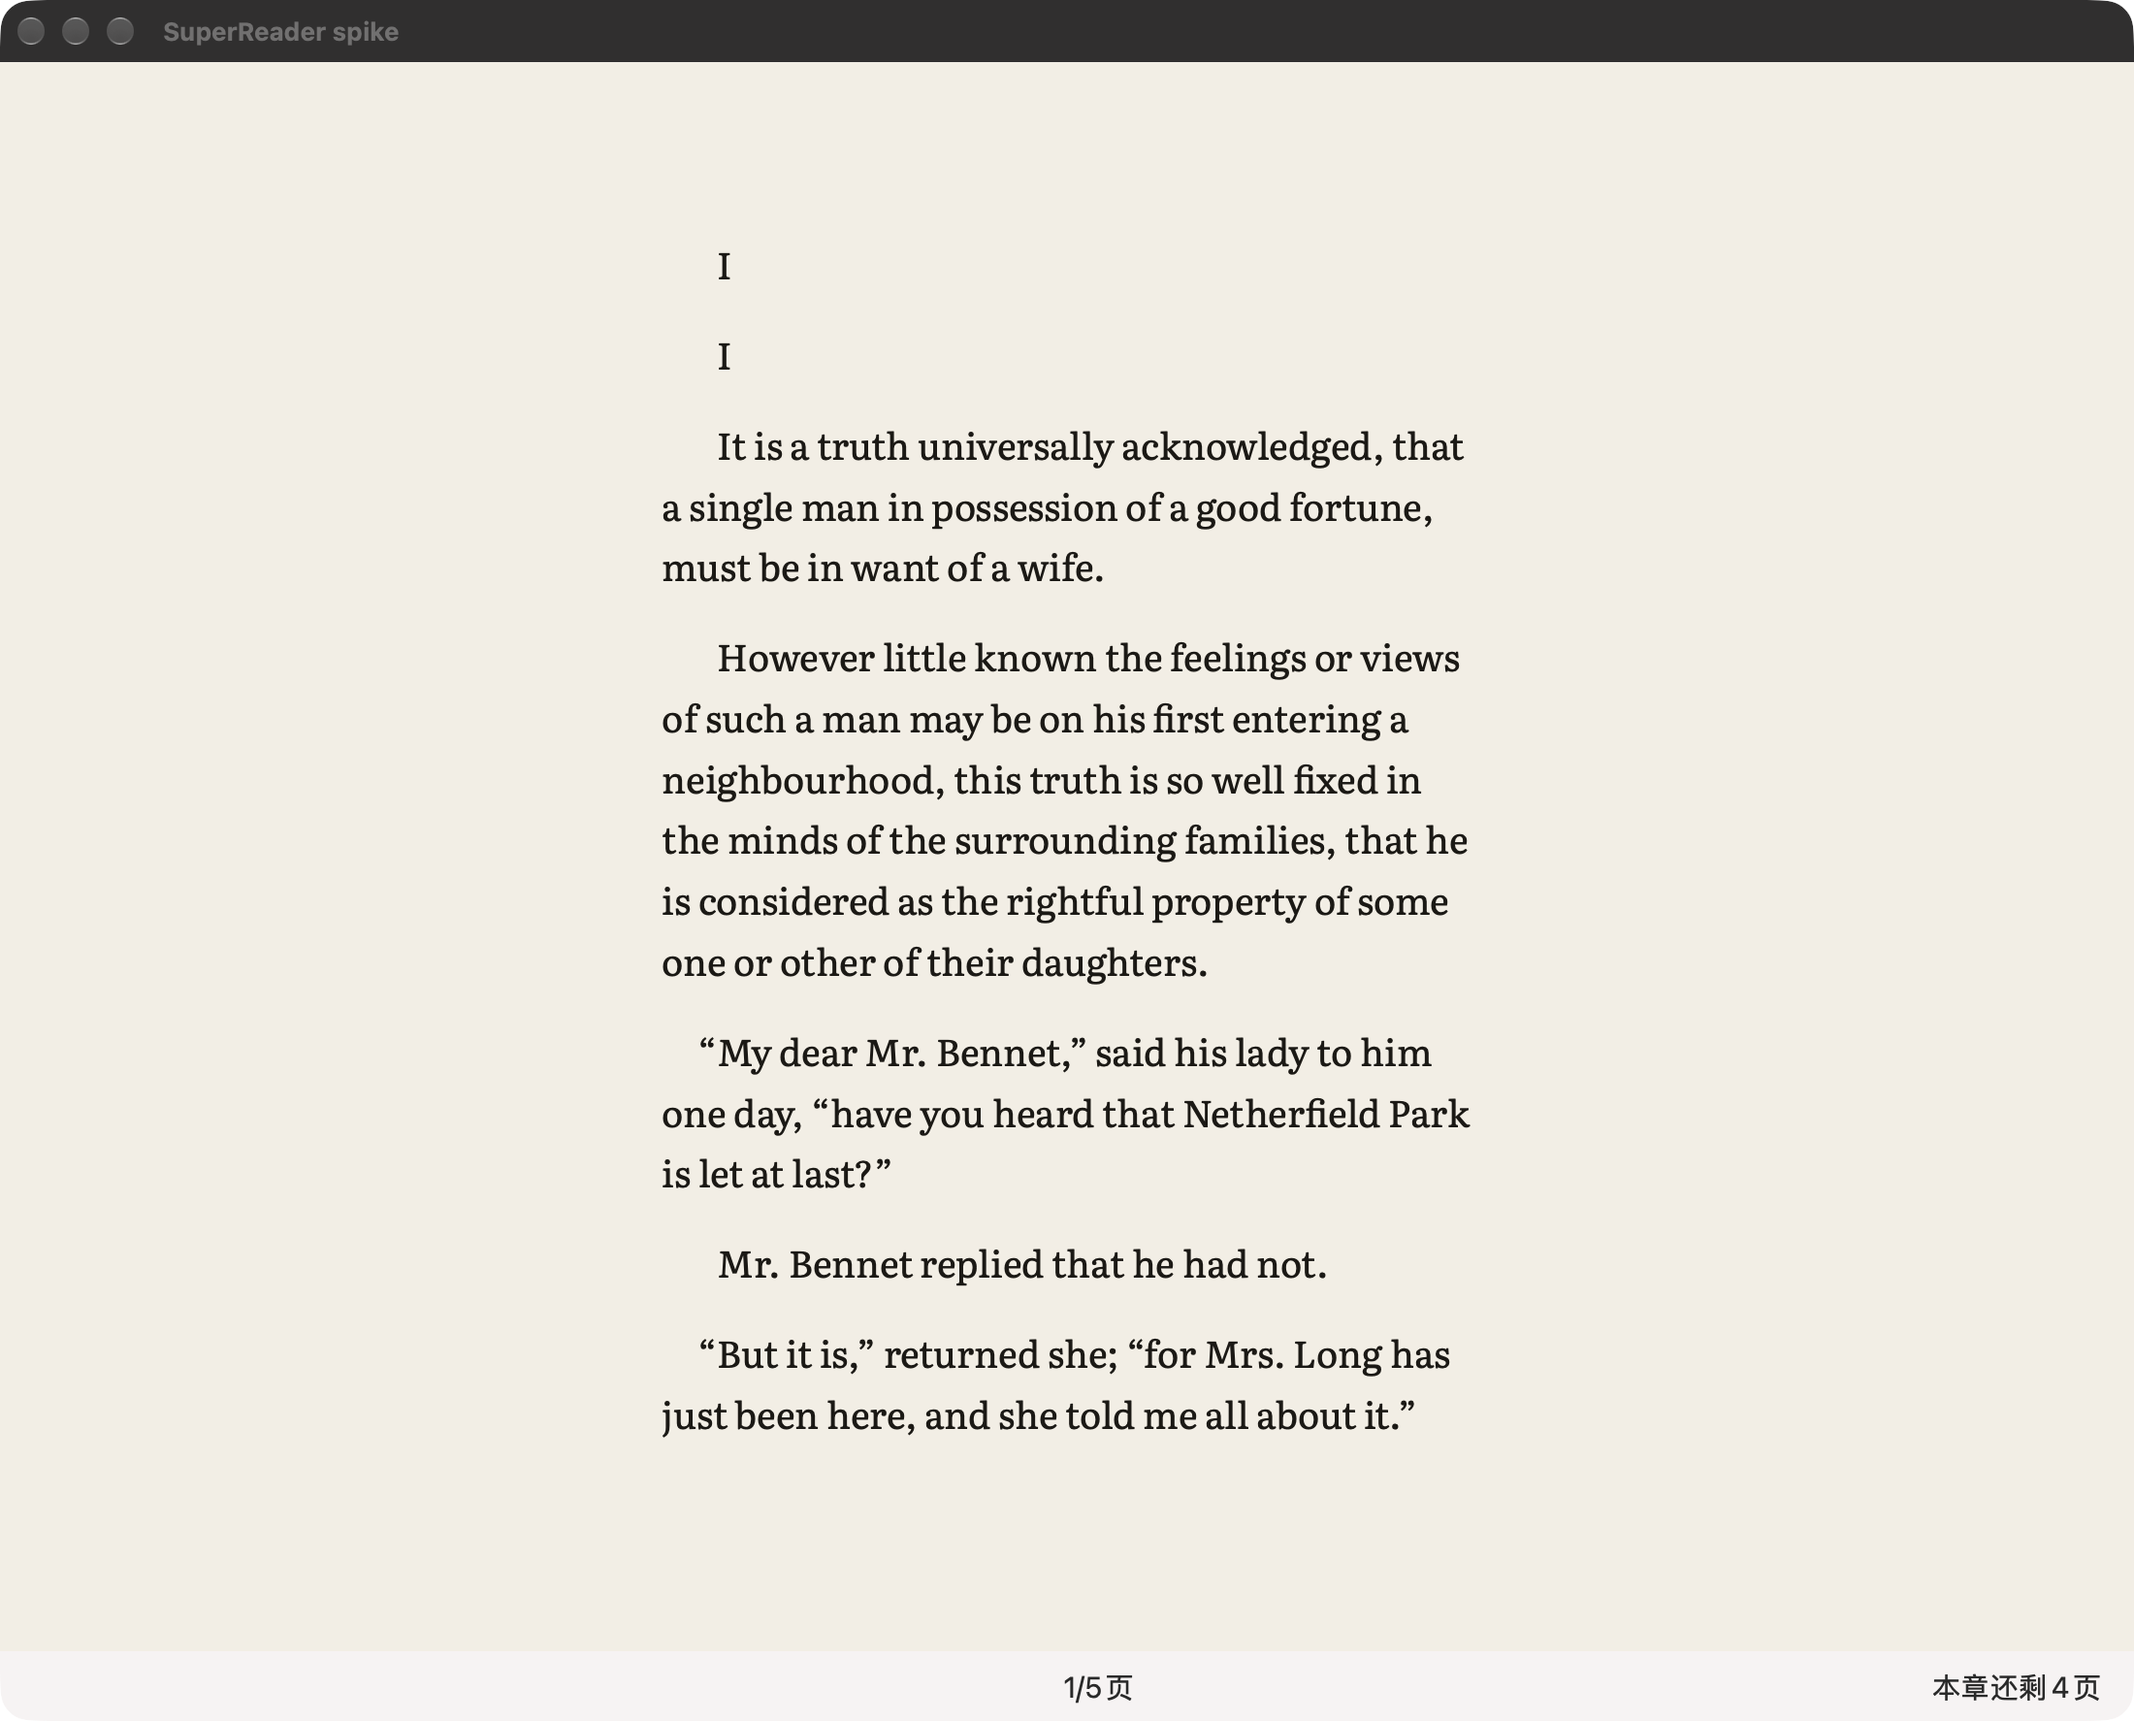
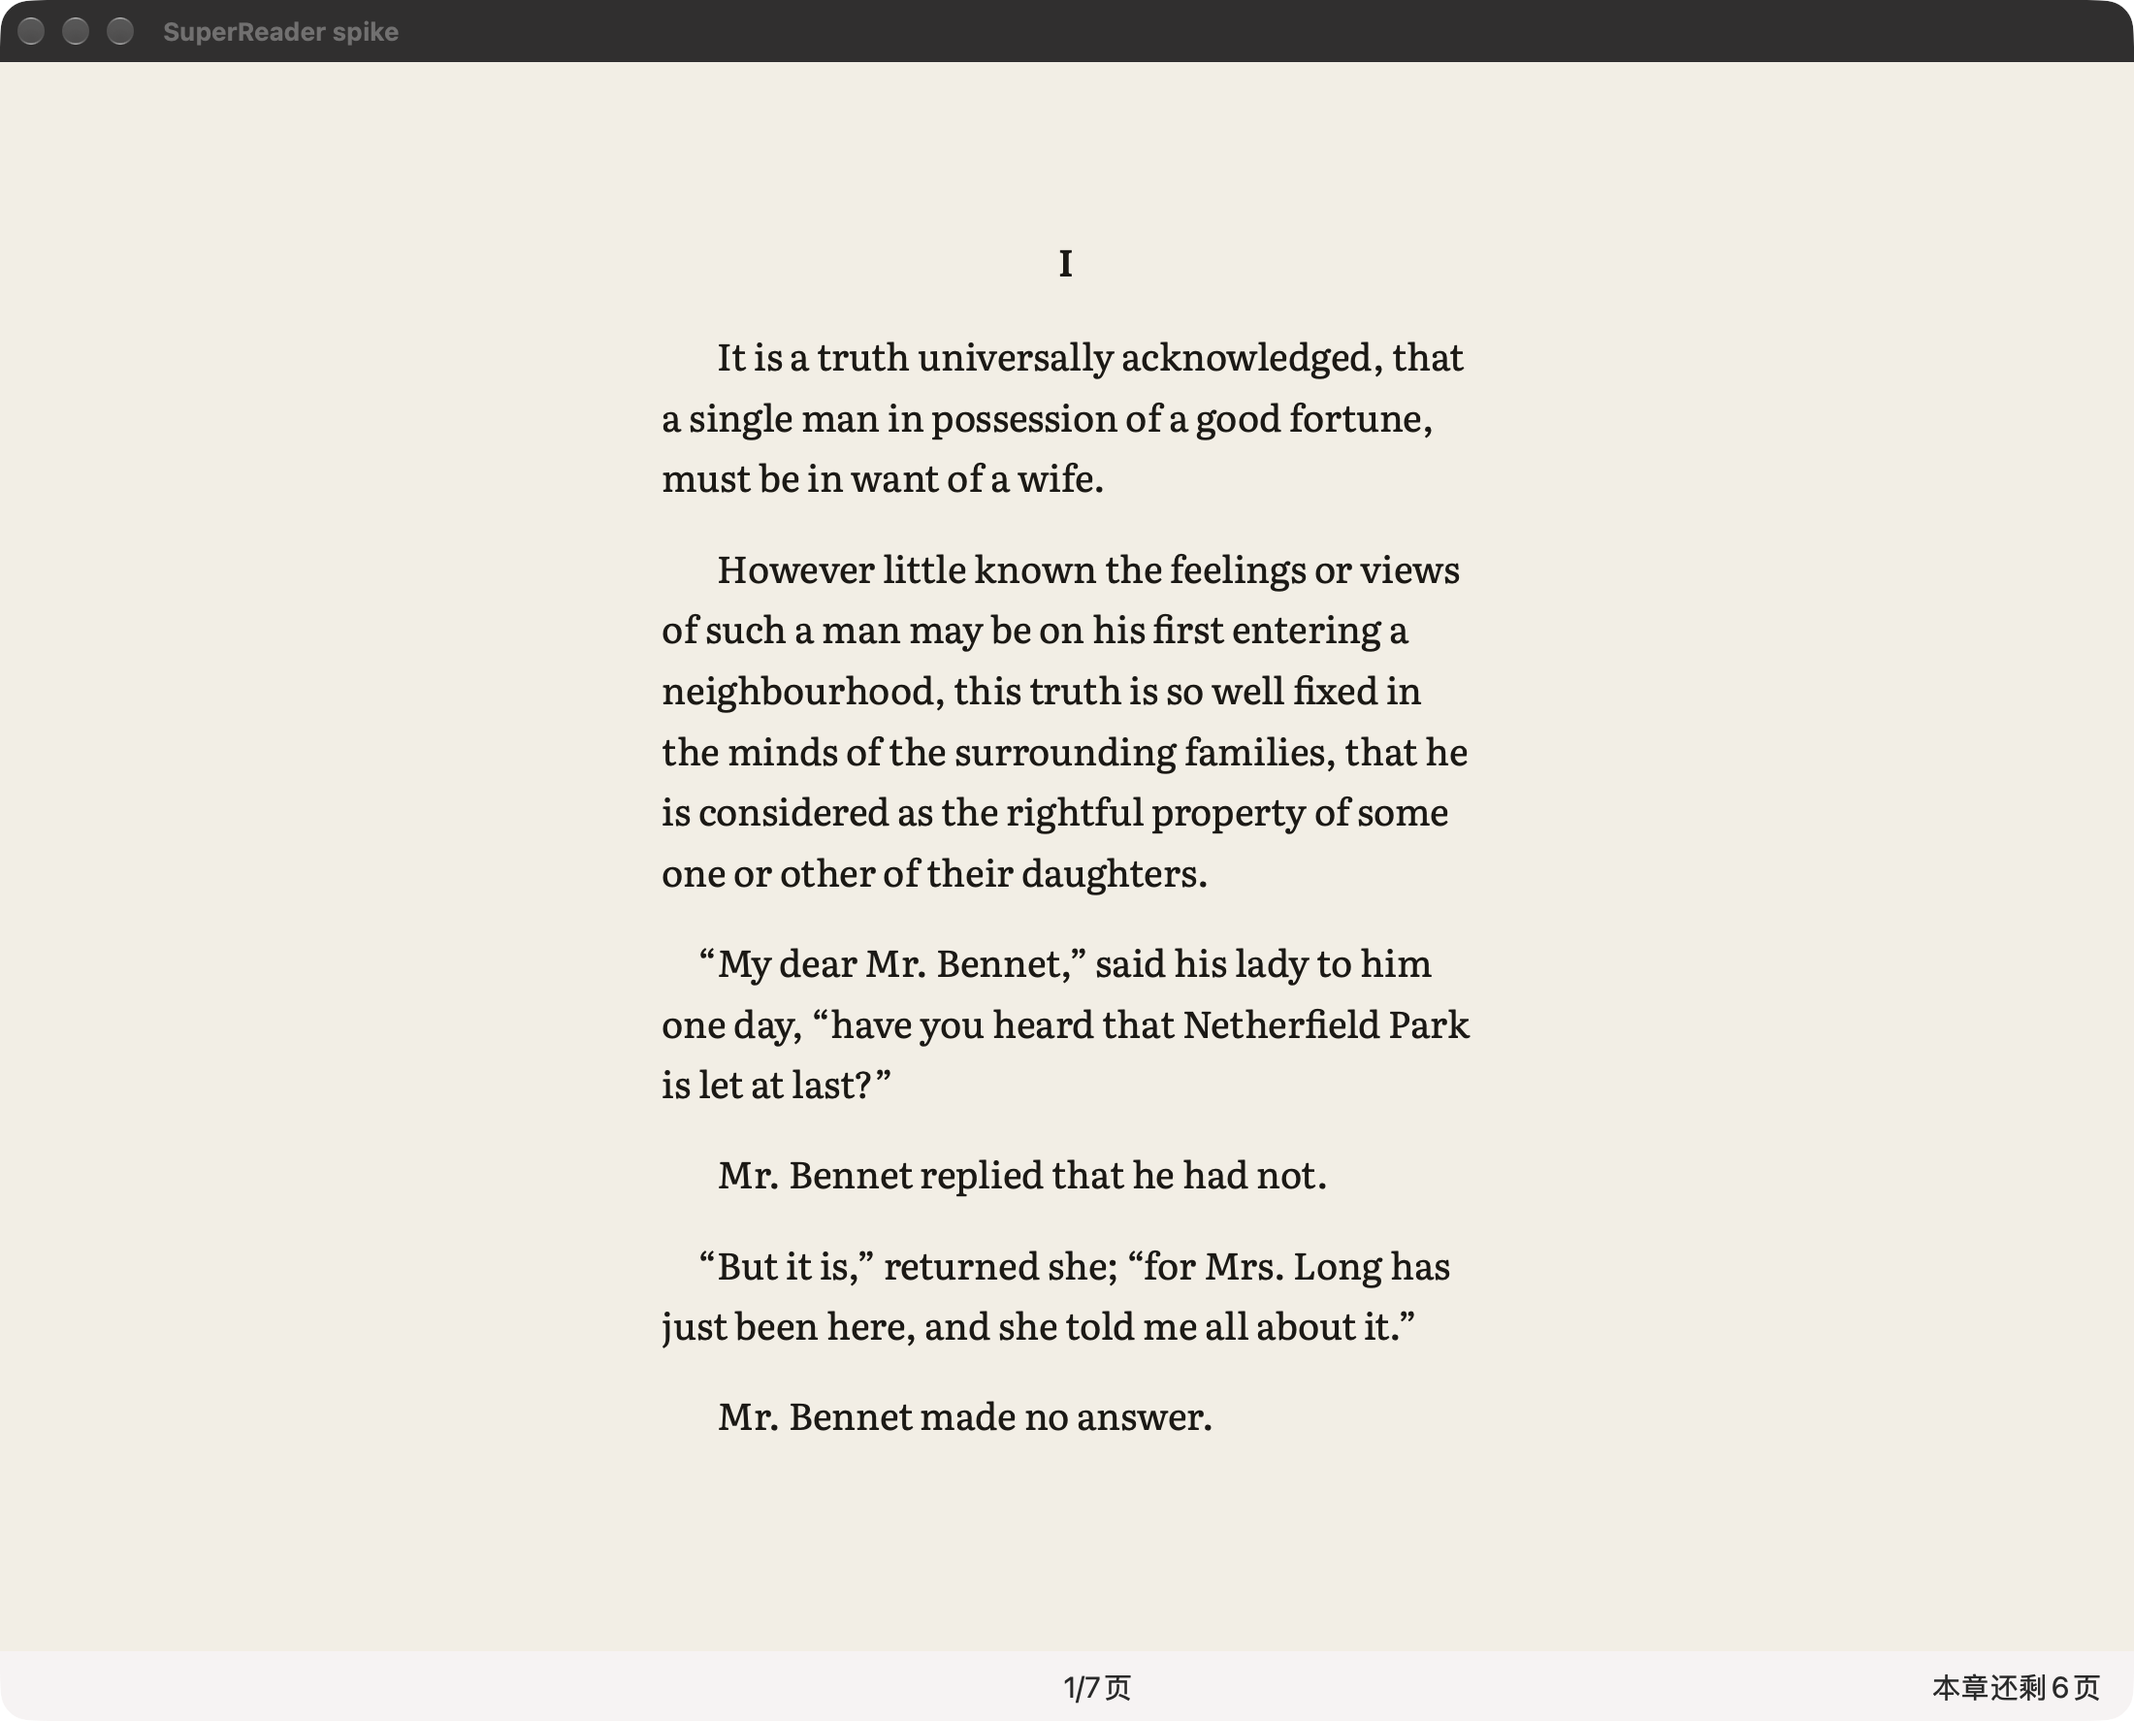
fix(fixtures): emit the chapter heading once
The document title and the h2 were both becoming body paragraphs.
The heading is now one h2, and a repeated block fails the text check.

Changed region(s): [[0.3091, 0.186, 0.68, 0.8371], [0.4945, 0.9611, 0.5255, 0.9921]]

diff --git a/spikes/epub/fixtures/build_books.py b/spikes/epub/fixtures/build_books.py
@@ -13,43 +13,39 @@ PRIDE = OUT / "pride-se.epub"
 ZHAOHUA = OUT / "zhaohua.epub"
 
 
-def plain_from(epub, needle):
-    if not epub.exists():
-        return ""
-    with zipfile.ZipFile(epub) as book:
-        for name in book.namelist():
-            if not name.lower().endswith((".xhtml", ".html", ".htm")):
-                continue
-            text = book.read(name).decode("utf-8", "replace")
-            if needle not in text:
-                continue
-            body = re.sub(r"(?is)<(script|style)[^>]*>.*?</\1>", " ", text)
-            body = re.sub(r"(?is)<br\s*/?>", "\n", body)
-            body = re.sub(r"(?is)</(?:p|div|h[1-6]|li|blockquote)>", "\n", body)
-            body = re.sub(r"(?is)<[^>]+>", "", body)
-            body = html.unescape(body)
-            body = re.sub(r"[ \t]+", " ", body)
-            body = re.sub(r"\n+", "\n", body).strip()
-            if len(body) > 1500:
-                return body[:6000]
-    return ""
+def blocks_from(epub, needle, fallback):
+    blocks = []
+    if epub.exists():
+        with zipfile.ZipFile(epub) as book:
+            for name in book.namelist():
+                if not name.lower().endswith((".xhtml", ".html", ".htm")):
+                    continue
+                text = book.read(name).decode("utf-8", "replace")
+                if needle not in text:
+                    continue
+                body = re.search(r"(?is)<body[^>]*>(.*)</body>", text)
+                inner = body.group(1) if body else text
+                for match in re.finditer(r"(?is)<(h[1-6]|p)\b[^>]*>(.*?)</\1>", inner):
+                    tag = match.group(1).lower()
+                    piece = re.sub(r"(?is)<[^>]+>", "", match.group(2))
+                    piece = html.unescape(piece)
+                    piece = " ".join(piece.split()).replace("\ue4c2", "").replace("\ue000", "")
+                    if not piece or "Gutenberg" in piece or "LICENSE" in piece:
+                        continue
+                    kind = tag if tag.startswith("h") else "p"
+                    block = (kind, piece)
+                    if blocks and blocks[-1] == block:
+                        continue
+                    blocks.append(block)
+                if sum(len(piece) for _, piece in blocks) > 1500:
+                    break
+    if not blocks:
+        blocks = [("p", fallback)]
+    return blocks
 
 
-def paragraphs(text, fallback):
-    chunks = []
-    for block in re.split(r"\n+", text):
-        block = " ".join(block.split())
-        if not block or "Gutenberg" in block or "LICENSE" in block:
-            continue
-        block = block.replace("\ue4c2", "").replace("\ue000", "")
-        if block:
-            chunks.append(block)
-    if not chunks:
-        chunks = [fallback]
-    filled = []
-    while sum(len(chunk) for chunk in filled) < 2200:
-        filled.extend(chunks[:8])
-    return filled
+def render(blocks):
+    return "\n".join(f"<{tag}>{html.escape(text)}</{tag}>" for tag, text in blocks)
 
 
 def xhtml(lang, title, body, extra_head=""):
@@ -105,19 +101,15 @@ def write_epub(path, files):
             book.writestr(name, data)
 
 
-def p_tags(chunks):
-    return "\n".join(f"<p>{html.escape(chunk)}</p>" for chunk in chunks)
-
-
 def build():
-    pride = paragraphs(
-        plain_from(PRIDE, "truth universally acknowledged"),
-        "It is a truth universally acknowledged, that a single man in possession of a good fortune, must be in want of a wife. "
-        "However little known the feelings or views of such a man may be on his first entering a neighbourhood, "
-        "this truth is so well fixed in the minds of the surrounding families, that he is considered the rightful property of some one or other of their daughters.",
+    pride = blocks_from(
+        PRIDE,
+        "truth universally acknowledged",
+        "It is a truth universally acknowledged, that a single man in possession of a good fortune, must be in want of a wife.",
     )
-    chinese = paragraphs(
-        plain_from(ZHAOHUA, "范"),
+    chinese = blocks_from(
+        ZHAOHUA,
+        "范",
         "在東京的客店裏，我們大抵一起來就看報。學生所看的多是朝日新聞和讀賣新聞。專愛看一點報上的雜感。",
     )
     container = """<?xml version="1.0"?>
@@ -128,12 +120,13 @@ def build():
     styled_css = """
 @font-face { font-family: "Literata"; src: url("Literata.ttf") format("truetype"); }
 p { font-family: "Literata", serif; font-size: 19px; line-height: 1.65; text-indent: 1.5em; text-align: left; margin: 0 0 0.8em 0; }
+h1, h2, h3 { font-family: "Literata", serif; font-size: 19px; text-align: center; text-indent: 0; font-weight: 600; margin: 0 0 1em 0; }
 """
     books = {
         "plain-en.epub": (
             "en",
             "Plain English",
-            p_tags(pride),
+            render(pride),
             "",
             None,
             [],
@@ -141,7 +134,7 @@ p { font-family: "Literata", serif; font-size: 19px; line-height: 1.65; text-ind
         "plain-zh.epub": (
             "zh-CN",
             "Plain Chinese",
-            p_tags(chinese),
+            render(chinese),
             "",
             None,
             [],
@@ -149,7 +142,7 @@ p { font-family: "Literata", serif; font-size: 19px; line-height: 1.65; text-ind
         "styled.epub": (
             "en",
             "Styled Literata",
-            p_tags(pride),
+            render(pride),
             '<link rel="stylesheet" href="style.css"/>',
             None,
             [("style", "style.css", "text/css"), ("font", "Literata.ttf", "font/ttf")],
@@ -157,7 +150,7 @@ p { font-family: "Literata", serif; font-size: 19px; line-height: 1.65; text-ind
         "fixed.epub": (
             "en",
             "Fixed Square",
-            p_tags(pride),
+            render(pride),
             '<meta name="viewport" content="width=1000, height=1000"/>',
             (1000, 1000),
             [],

diff --git a/.cursor/skills/verify-superreader/features/reading-view.md b/.cursor/skills/verify-superreader/features/reading-view.md
@@ -12,7 +12,7 @@ One EPUB page on the WKWebView. The book's font, size, line height, indent, alig
 - `reading-fixed-ignores-trim` keeps a square viewport when the saved trim changes.
 - `reading-slide` records the 160ms slide. Each animation-frame gap stays under two refreshes, 33.4 ms.
 - `reading-page-box` requires the page box center within 2 px of the stage center, and no dark vertical rule in the picture.
-- `reading-text-complete` requires `Mr. Bennet` and `Mrs. Long` in Pride and the English test books, and the Chinese source phrase in the Chinese books.
+- `reading-text-complete` requires `Mr. Bennet` and `Mrs. Long` in Pride and the English test books, the Chinese source phrase in the Chinese books, and no two identical blocks in a row.
 - `reading-text-clean` fails on U+FFFD, U+25A1, a private-use character, or a space between two CJK characters.
 
 ## How to get to it (user POV)
